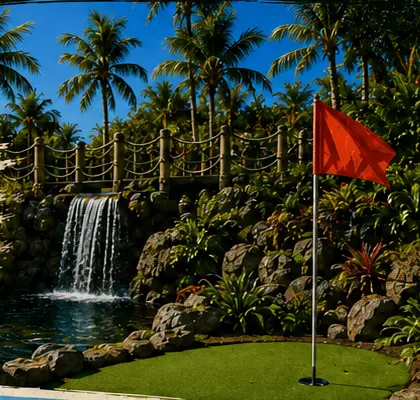
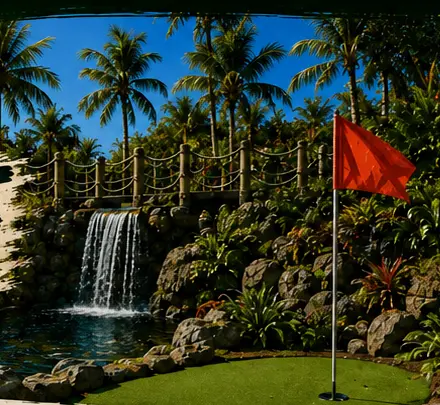
Recompose Mini Golf mobile to approved mockups

diff --git a/public/boardroom/billboard/demos/mini-golf/css/mobile-final.css b/public/boardroom/billboard/demos/mini-golf/css/mobile-final.css
@@ -1,0 +1,62 @@
+/* Mini Golf final phone layouts. One authority; desktop is intentionally inert. */
+@media (max-width:900px), (orientation:landscape) and (max-height:520px) and (max-width:1000px) {
+  html,body.mini-golf-final,body.mini-golf-final .viewport,body.mini-golf-final .stage{
+    width:100%!important;height:100%!important;min-width:0!important;min-height:0!important;max-width:none!important;max-height:100%!important;margin:0!important;overflow:hidden!important
+  }
+  body.mini-golf-final .viewport,body.mini-golf-final .stage{width:100vw!important;height:100dvh!important;display:block!important;aspect-ratio:auto!important;background:#021b0f!important;transform:none!important}
+  body.mini-golf-final .artwork,body.mini-golf-final .brand-mask{display:none!important}
+  body.mini-golf-final .stage:before{display:none!important}
+  body.mini-golf-final .mobile-home{position:absolute!important;inset:0!important;z-index:3!important;display:grid!important;width:100%!important;height:100%!important;margin:0!important;padding:0!important;gap:0!important;overflow:hidden!important;background:#021b0f!important;color:#fff!important;text-shadow:none!important;pointer-events:auto!important}
+  body.mini-golf-final .mobile-header{position:relative;z-index:5;display:grid;align-items:center;background:#011c10}
+  body.mini-golf-final .mobile-identity{align-self:stretch;background:url('../assets/images/mobile-logo-transparent.webp?v=2') left center/contain no-repeat}
+  body.mini-golf-final .mobile-brand,body.mini-golf-final .mobile-location{opacity:0!important}
+  body.mini-golf-final .mobile-palm{display:block!important;align-self:stretch;color:transparent!important;background:url('../assets/images/mobile-palm-transparent.webp') center/contain no-repeat;filter:none!important}
+  body.mini-golf-final .mobile-nav-toggle{display:grid;place-content:center;gap:5px;min-width:48px;min-height:48px;margin:0;padding:0;border:2px solid #d7dc28;border-radius:14px;background:#07110b}
+  body.mini-golf-final .mobile-nav-toggle span{display:block!important;width:26px;height:4px;border-radius:5px;background:#fff}
+  body.mini-golf-final .mobile-hero-photo{min-width:0;min-height:0;background:url('../assets/images/mobile-hero.webp?v=2') center 52%/cover no-repeat;filter:brightness(1.42) saturate(1.18)}
+  body.mini-golf-final .mobile-hero-copy{position:relative!important;z-index:2!important;display:flex!important;flex-direction:column!important;align-items:center!important;justify-content:center!important;min-width:0!important;min-height:0!important;margin:0!important;padding:3px 10px!important;overflow:hidden!important;background:#f5e8c7!important;color:#082918!important;text-align:center!important;transform:none!important}
+  body.mini-golf-final .mobile-kicker{margin:0!important;color:#2e7a1e!important;font-weight:900!important;letter-spacing:.11em!important;text-transform:uppercase!important}
+  body.mini-golf-final .mobile-home h1{width:116%!important;margin:0!important;color:#061b10!important;font-family:Arial,sans-serif!important;font-weight:900!important;font-style:italic!important;line-height:.82!important;letter-spacing:-.045em!important;text-transform:uppercase!important;transform:scaleX(.84)!important}
+  body.mini-golf-final .mobile-tagline{margin:4px 0 0;padding:.08em .8em;background:#4b8d18;color:#fff;font-family:Arial,sans-serif;font-weight:800;font-style:italic;line-height:1.15;text-transform:uppercase;transform:rotate(-1deg)}
+  body.mini-golf-final .mobile-book{display:flex;align-items:center;justify-content:center;gap:.7em;min-height:46px;border:0;border-radius:12px;background:linear-gradient(#eef20d,#cbd805);box-shadow:0 6px 13px #0006,inset 0 1px #fff8;color:#07140b;font-family:Arial,sans-serif;font-weight:900;text-transform:uppercase}
+  body.mini-golf-final .mobile-book span{display:grid!important;place-items:center;width:1.15em;aspect-ratio:1;border-radius:50%;background:radial-gradient(circle at 35% 28%,#fff 0 15%,#ddd 45%,#999);color:transparent;box-shadow:0 3px 6px #0006}
+  body.mini-golf-final .mobile-highlights{position:relative!important;z-index:3!important;display:grid!important;min-width:0!important;min-height:0!important;margin:0!important;align-self:stretch!important;background:#032514!important}
+  body.mini-golf-final .mobile-highlights article{display:grid!important;min-width:0!important;min-height:0!important;height:auto!important;margin:0!important;padding:0!important;overflow:hidden!important;border:1px solid #b5c4b6!important;border-radius:15px!important;box-shadow:0 5px 12px #0006!important}
+  body.mini-golf-final .mobile-highlights article>div{display:grid!important;grid-template-columns:clamp(34px,18%,52px) minmax(0,1fr)!important;align-items:center!important;align-content:center!important;min-width:0!important}
+  body.mini-golf-final .mobile-highlights b{display:grid;place-items:center;aspect-ratio:1;border:2px solid #e4df25;border-radius:50%;color:#fff;font-weight:800}
+  body.mini-golf-final .mobile-highlights strong{min-width:0;color:#fff!important;font-family:Arial,sans-serif!important;font-weight:500!important;line-height:1.03!important;text-transform:uppercase!important;white-space:nowrap!important}
+  body.mini-golf-final .highlight--course{background:#075c31!important}body.mini-golf-final .highlight--parties{background:#f49a08!important}body.mini-golf-final .highlight--snacks{background:#08788b!important}
+  body.mini-golf-final .mobile-highlights article>span.highlight-photo{display:block!important;visibility:visible!important;opacity:1!important;min-width:0!important;min-height:0!important;background-position:center!important;background-size:cover!important;background-repeat:no-repeat!important;filter:brightness(1.12) saturate(1.15)!important}
+  body.mini-golf-final .highlight--course .highlight-photo{background-image:url('../assets/images/mobile-card-course.webp')!important}body.mini-golf-final .highlight--parties .highlight-photo{background-image:url('../assets/images/mobile-card-parties.webp')!important}body.mini-golf-final .highlight--snacks .highlight-photo{background-image:url('../assets/images/mobile-card-snacks.webp')!important}
+  body.mini-golf-final .mobile-details{position:relative;z-index:3;display:grid;min-width:0;min-height:0;overflow:hidden;border-radius:15px;background:#f5e9ca;color:#082c1a}
+  body.mini-golf-final .mobile-details>div{display:grid;grid-template-columns:auto minmax(0,1fr);align-items:center;min-width:0;padding:3px 7px;gap:6px}body.mini-golf-final .mobile-details>div+div{border-left:1px dashed #7e7550}
+  body.mini-golf-final .mobile-details b{display:grid;place-items:center;color:#087139;line-height:1}body.mini-golf-final .mobile-details span{display:grid;min-width:0}body.mini-golf-final .mobile-details strong{font-family:Arial,sans-serif;text-transform:uppercase}body.mini-golf-final .mobile-details small{color:#151515;white-space:nowrap}
+  body.mini-golf-final .hotspots{z-index:10!important}body.mini-golf-final .hotspot,body.mini-golf-final .hotspot--course,body.mini-golf-final .hotspot--story,body.mini-golf-final .hotspot--events,body.mini-golf-final .hotspot--book{position:relative!important;inset:auto!important;min-width:0!important;min-height:44px!important;margin:0!important;padding:0!important;overflow:hidden!important;border:1px solid #a1b648!important;border-radius:10px!important;background:#07412d!important}
+  body.mini-golf-final .hotspot--book{background:linear-gradient(#e8ee4c,#c4da26)!important}body.mini-golf-final .hotspot:before{display:none!important}body.mini-golf-final .hotspot:after{position:absolute!important;inset:0!important;display:grid!important;place-items:center!important;padding:0 4px!important;background:transparent!important;color:#fff!important;font:800 clamp(10px,2.7vw,13px)/1 Arial,sans-serif!important;text-align:center!important;white-space:normal!important}
+  body.mini-golf-final .hotspot--course:after{content:'THE COURSE'!important}body.mini-golf-final .hotspot--story:after{content:'ABOVE PAR'!important}body.mini-golf-final .hotspot--events:after{content:'PARTIES & EVENTS'!important}body.mini-golf-final .hotspot--book:after{content:'BOOK NOW'!important;color:#092c22!important}
+  body.mini-golf-final .overlay{position:absolute!important;inset:0!important;z-index:30!important;display:grid!important;place-items:center!important;width:100%!important;height:100%!important;min-height:0!important;overflow:hidden!important;background:#00180fe8!important;backdrop-filter:blur(8px)!important}
+  body.mini-golf-final .overlay[hidden]{display:none!important}body.mini-golf-final .overlay-panel,body.mini-golf-final .overlay--course .overlay-panel,body.mini-golf-final .overlay-panel--split,body.mini-golf-final .overlay-panel--booking{position:relative!important;width:min(100%,900px)!important;height:auto!important;max-height:100%!important;min-height:0!important;margin:0!important;overflow:hidden!important;border-radius:18px!important}
+  body.mini-golf-final .overlay-close{position:absolute!important;z-index:2!important;top:4px!important;right:6px!important;width:44px!important;height:44px!important;min-height:44px!important;color:inherit!important}body.mini-golf-final .overlay .eyebrow{line-height:1.1!important}body.mini-golf-final .overlay h1{line-height:.9!important}body.mini-golf-final .overlay p,body.mini-golf-final .overlay .lead{line-height:1.2!important}body.mini-golf-final .primary-action{min-height:40px!important}body.mini-golf-final .overlay input,body.mini-golf-final .overlay select,body.mini-golf-final .overlay textarea{min-height:38px!important}body.mini-golf-final .overlay textarea{resize:none!important}
+}
+@media (max-width:900px) and (orientation:portrait){
+ body.mini-golf-final .mobile-home{grid-template-columns:1fr!important;grid-template-rows:13% 22% 25% 32% 8%!important}
+ body.mini-golf-final .mobile-header{grid-row:1;grid-template-columns:minmax(125px,40vw) minmax(42px,15vw) minmax(50px,15vw);justify-content:space-between;column-gap:5px;padding:max(10px,env(safe-area-inset-top)) max(12px,env(safe-area-inset-right)) 3px max(44px,env(safe-area-inset-left))}
+ body.mini-golf-final .mobile-identity,body.mini-golf-final .mobile-palm{width:100%;height:100%}body.mini-golf-final .mobile-nav-toggle{width:clamp(48px,14vw,58px);height:clamp(48px,14vw,58px)}
+ body.mini-golf-final .mobile-hero-photo{grid-row:2;clip-path:ellipse(82% 66% at 52% 45%);margin:-5% -10% -3%;background-position:center 48%!important}
+ body.mini-golf-final .mobile-hero-copy{grid-row:3;margin-top:-3%!important;padding-top:4%!important;border-radius:50% 50% 0 0/8% 8% 0 0!important}
+ body.mini-golf-final .mobile-kicker{font-size:clamp(12px,min(3.5vw,1.9dvh),17px)!important}body.mini-golf-final .mobile-home h1{font-size:clamp(48px,min(16vw,9dvh),76px)!important}body.mini-golf-final .mobile-tagline{font-size:clamp(15px,min(4.4vw,2.5dvh),22px)}body.mini-golf-final .mobile-book{width:min(64vw,285px);margin-top:clamp(7px,1dvh,11px);font-size:clamp(17px,min(4.8vw,2.7dvh),24px)}
+ body.mini-golf-final .mobile-highlights{grid-row:4;grid-template-columns:1fr!important;grid-template-rows:repeat(3,minmax(0,1fr))!important;padding:4px max(17px,env(safe-area-inset-right)) 4px max(17px,env(safe-area-inset-left));gap:6px!important}body.mini-golf-final .mobile-highlights article{grid-template-columns:50% 50%!important;grid-template-rows:1fr!important}body.mini-golf-final .mobile-highlights article>div{grid-column:1;grid-row:1;padding:4px 7px;gap:5px}body.mini-golf-final .mobile-highlights strong{font-size:clamp(14px,min(4vw,2.2dvh),20px)!important}body.mini-golf-final .mobile-highlights b{width:clamp(36px,min(10vw,5.2dvh),50px)}body.mini-golf-final .highlight-photo{grid-column:2!important;grid-row:1!important;margin:5px!important;border-radius:11px}
+ body.mini-golf-final .mobile-details{grid-row:5;grid-template-columns:repeat(3,1fr);margin:2px max(17px,env(safe-area-inset-right)) max(5px,env(safe-area-inset-bottom)) max(17px,env(safe-area-inset-left));padding:3px}body.mini-golf-final .mobile-details b{font-size:clamp(16px,4.8vw,24px)}body.mini-golf-final .mobile-details strong{font-size:clamp(7px,2vw,10px)}body.mini-golf-final .mobile-details small{font-size:clamp(6px,1.65vw,9px)}
+ body.mini-golf-final .hotspots{display:none!important;position:fixed!important;top:max(68px,calc(env(safe-area-inset-top) + 56px))!important;right:max(10px,env(safe-area-inset-right))!important;bottom:auto!important;left:auto!important;width:min(70vw,290px)!important;height:auto!important;grid-template-columns:1fr!important;grid-template-rows:repeat(4,48px)!important;padding:8px!important;gap:6px!important;background:#03271ff7!important;border:1px solid #849b3c!important;border-radius:14px!important}body.mini-golf-final.mobile-nav-open .hotspots{display:grid!important}
+ body.mini-golf-final .overlay{padding:max(10px,env(safe-area-inset-top)) max(10px,env(safe-area-inset-right)) max(8px,env(safe-area-inset-bottom)) max(46px,env(safe-area-inset-left))!important}body.mini-golf-final .overlay-panel,body.mini-golf-final .overlay--course .overlay-panel,body.mini-golf-final .overlay-panel--split,body.mini-golf-final .overlay-panel--booking{padding:45px clamp(14px,4vw,24px) 12px!important}body.mini-golf-final .overlay .eyebrow{margin:0 0 3px!important;font-size:clamp(9px,2.8vw,12px)!important}body.mini-golf-final .overlay h1{margin:0 0 10px!important;font-size:clamp(34px,min(11vw,6.5dvh),50px)!important}body.mini-golf-final .overlay h2{margin:3px 0!important;font-size:clamp(14px,4vw,18px)!important}body.mini-golf-final .overlay p,body.mini-golf-final .overlay .lead{margin:4px 0!important;font-size:clamp(11px,min(3.3vw,1.85dvh),15px)!important}body.mini-golf-final .course-grid{grid-template-columns:1fr 1fr!important;gap:7px!important}body.mini-golf-final .course-grid article,body.mini-golf-final .events-grid article{padding:9px!important;border-radius:10px!important}body.mini-golf-final .course-grid b{width:30px!important;height:30px!important;font-size:13px!important}body.mini-golf-final .panel-note{margin-top:7px!important;padding:7px 9px!important;font-size:11px!important}body.mini-golf-final .overlay-panel--split{display:grid!important;grid-template-columns:1fr!important;gap:8px!important}body.mini-golf-final .story-badge{justify-self:center!important;width:min(29vw,120px)!important;border-width:5px!important}body.mini-golf-final .story-badge strong{font-size:36px!important}body.mini-golf-final .events-grid{grid-template-columns:1fr!important;gap:6px!important}body.mini-golf-final .events-grid article{display:grid!important;grid-template-columns:32px 1fr!important;column-gap:7px!important}body.mini-golf-final .events-grid span{grid-row:1/3!important;font-size:24px!important}body.mini-golf-final .events-grid h2,body.mini-golf-final .events-grid p{margin:0!important}body.mini-golf-final .overlay--events .primary-action{margin-top:7px!important;padding:8px 13px!important;font-size:12px!important}body.mini-golf-final .overlay-panel--booking{display:block!important}body.mini-golf-final .overlay form{grid-template-columns:1fr 1fr!important;gap:5px 7px!important}body.mini-golf-final .overlay label{gap:2px!important;font-size:10px!important}body.mini-golf-final .overlay input,body.mini-golf-final .overlay select,body.mini-golf-final .overlay textarea{padding:6px 7px!important;font-size:11px!important}body.mini-golf-final .overlay textarea{height:38px!important}body.mini-golf-final .overlay form .wide{grid-column:1/-1!important}body.mini-golf-final .overlay form .primary-action{margin:0!important;padding:6px 8px!important;font-size:10px!important}body.mini-golf-final .form-status{margin:0!important;min-height:0!important;font-size:9px!important}
+}
+@media (orientation:landscape) and (max-height:520px) and (max-width:1000px){
+ body.mini-golf-final .mobile-home{grid-template-columns:43% 57%!important;grid-template-rows:13% 28% 49% 10%!important}body.mini-golf-final .mobile-header{grid-column:1/-1;grid-row:1;grid-template-columns:25% 7% 1fr;padding:max(6px,env(safe-area-inset-top)) max(12px,env(safe-area-inset-right)) 3px max(44px,env(safe-area-inset-left))}body.mini-golf-final .mobile-identity,body.mini-golf-final .mobile-palm{width:100%;height:100%}body.mini-golf-final .mobile-nav-toggle{display:none}
+ body.mini-golf-final .mobile-hero-copy{grid-column:1;grid-row:2;padding:2px 10px!important;border-radius:0 9% 9% 0/0 50% 50% 0!important}body.mini-golf-final .mobile-hero-photo{grid-column:2;grid-row:2;margin-left:-5%;clip-path:ellipse(78% 76% at 57% 50%);background-position:center 50%!important}body.mini-golf-final .mobile-kicker{font-size:clamp(9px,min(1.35vw,2.8dvh),14px)!important}body.mini-golf-final .mobile-home h1{font-size:clamp(42px,min(7.5vw,14dvh),84px)!important}body.mini-golf-final .mobile-tagline{font-size:clamp(13px,min(2vw,4dvh),21px)}body.mini-golf-final .mobile-book{width:min(58%,235px);margin-top:5px;font-size:clamp(14px,min(2.1vw,4.3dvh),22px)}
+ body.mini-golf-final .mobile-highlights{grid-column:1/-1;grid-row:3;grid-template-columns:repeat(3,minmax(0,1fr))!important;grid-template-rows:1fr!important;padding:4px max(18px,env(safe-area-inset-right)) 4px max(18px,env(safe-area-inset-left));gap:7px!important}body.mini-golf-final .mobile-highlights article{grid-template-columns:1fr!important;grid-template-rows:42% 58%!important}body.mini-golf-final .mobile-highlights article>div{grid-column:1;grid-row:1;padding:3px 6px;gap:4px}body.mini-golf-final .mobile-highlights strong{font-size:clamp(12px,min(1.55vw,3.6dvh),17px)!important}body.mini-golf-final .mobile-highlights b{width:clamp(29px,min(4vw,7.8dvh),42px)}body.mini-golf-final .highlight-photo{grid-column:1!important;grid-row:2!important;margin:0 5px 5px!important;border-radius:10px}
+ body.mini-golf-final .mobile-details{grid-column:1/-1;grid-row:4;grid-template-columns:repeat(3,1fr);margin:2px max(6vw,env(safe-area-inset-right)) max(4px,env(safe-area-inset-bottom)) max(6vw,env(safe-area-inset-left));padding:3px 7px}body.mini-golf-final .mobile-details b{font-size:clamp(18px,5.5dvh,29px)}body.mini-golf-final .mobile-details strong{font-size:clamp(9px,min(1.25vw,2.7dvh),13px)}body.mini-golf-final .mobile-details small{font-size:clamp(8px,min(1vw,2.2dvh),11px)}
+ body.mini-golf-final .hotspots{position:absolute!important;top:max(7px,env(safe-area-inset-top))!important;right:max(10px,env(safe-area-inset-right))!important;bottom:auto!important;left:32%!important;display:grid!important;width:auto!important;height:clamp(45px,12dvh,56px)!important;grid-template-columns:1fr 1fr 1.35fr .9fr!important;padding:3px!important;gap:5px!important;background:transparent!important;border:0!important;box-shadow:none!important}
+ body.mini-golf-final .overlay{padding:max(6px,env(safe-area-inset-top)) max(8px,env(safe-area-inset-right)) max(6px,env(safe-area-inset-bottom)) max(38px,env(safe-area-inset-left))!important}body.mini-golf-final .overlay-panel,body.mini-golf-final .overlay--course .overlay-panel,body.mini-golf-final .overlay-panel--split,body.mini-golf-final .overlay-panel--booking{padding:34px 14px 9px!important}body.mini-golf-final .overlay .eyebrow{margin:0 0 1px!important;font-size:9px!important}body.mini-golf-final .overlay h1{margin:0 0 5px!important;font-size:clamp(27px,8dvh,40px)!important}body.mini-golf-final .overlay h2{margin:2px 0!important;font-size:clamp(12px,3.5dvh,17px)!important}body.mini-golf-final .overlay p,body.mini-golf-final .overlay .lead{margin:2px 0!important;font-size:clamp(9px,2.7dvh,13px)!important}body.mini-golf-final .course-grid{grid-template-columns:repeat(4,1fr)!important;gap:5px!important}body.mini-golf-final .course-grid article{padding:6px!important}body.mini-golf-final .course-grid b{width:24px!important;height:24px!important;font-size:10px!important}body.mini-golf-final .panel-note{margin-top:5px!important;padding:5px 8px!important;font-size:10px!important}body.mini-golf-final .overlay-panel--split{display:grid!important;grid-template-columns:1.5fr .5fr!important;gap:10px!important}body.mini-golf-final .story-badge{width:min(18vw,140px)!important;border-width:5px!important}body.mini-golf-final .story-badge strong{font-size:38px!important}body.mini-golf-final .events-grid{grid-template-columns:repeat(3,1fr)!important;gap:6px!important}body.mini-golf-final .events-grid article{padding:6px!important}body.mini-golf-final .events-grid span{font-size:23px!important}body.mini-golf-final .overlay--events .primary-action{margin-top:5px!important;padding:6px 12px!important;font-size:10px!important}body.mini-golf-final .overlay-panel--booking{display:grid!important;grid-template-columns:.72fr 1.28fr!important;gap:10px!important}body.mini-golf-final .overlay form{grid-template-columns:1fr 1fr!important;gap:4px 6px!important}body.mini-golf-final .overlay label{gap:2px!important;font-size:9px!important}body.mini-golf-final .overlay input,body.mini-golf-final .overlay select,body.mini-golf-final .overlay textarea{min-height:36px!important;padding:5px 6px!important;font-size:10px!important}body.mini-golf-final .overlay textarea{height:36px!important}body.mini-golf-final .overlay form .wide{grid-column:auto!important}body.mini-golf-final .overlay form label.wide{grid-column:1/-1!important}body.mini-golf-final .overlay form .primary-action{margin:0!important;padding:5px 7px!important;font-size:9px!important}body.mini-golf-final .form-status{margin:0!important;min-height:0!important;font-size:9px!important}
+}
+@media (max-height:350px) and (orientation:landscape){body.mini-golf-final .mobile-details small{display:none}body.mini-golf-final .overlay .eyebrow{display:none!important}}
+@media (prefers-reduced-motion:reduce){body.mini-golf-final .overlay{animation:none!important}}

diff --git a/public/boardroom/billboard/demos/mini-golf/site.html b/public/boardroom/billboard/demos/mini-golf/site.html
@@ -7,10 +7,9 @@
   <meta name="description" content="A Hole in One — tropical mini golf in Wāperiki.">
   <title>A Hole in One | Tropical Mini Golf</title>
   <link rel="stylesheet" href="css/style.css?v=grey-final">
-  <link rel="stylesheet" href="css/mobile-fluid.css?v=1">
-  <link rel="stylesheet" href="css/mobile-composition.css?v=11">
+  <link rel="stylesheet" href="css/mobile-final.css?v=1">
 </head>
-<body>
+<body class="mini-golf-final">
 <main class="viewport" aria-label="A Hole in One tropical mini golf">
     <div class="stage" id="stage">
       <img class="artwork" src="assets/images/puttputt-hero.webp" alt="Tropical mini golf course with feature cards and Wāperiki map">

diff --git a/public/boardroom/billboard/demos/mini-golf/index.html b/public/boardroom/billboard/demos/mini-golf/index.html
@@ -84,6 +84,6 @@
   
 <a class="foundry-demo-return" href="../../index.html" aria-label="Back to Billboard"><img src="../../../../assets/images/backarrow.webp" alt=""></a>
 
-  <iframe class="foundry-demo-frame" src="site.html?v=mobile-poster-11" title="Mini Golf — Billboard demo"></iframe>
+  <iframe class="foundry-demo-frame" src="site.html?v=mobile-final-1" title="Mini Golf — Billboard demo"></iframe>
 </body>
 </html>
